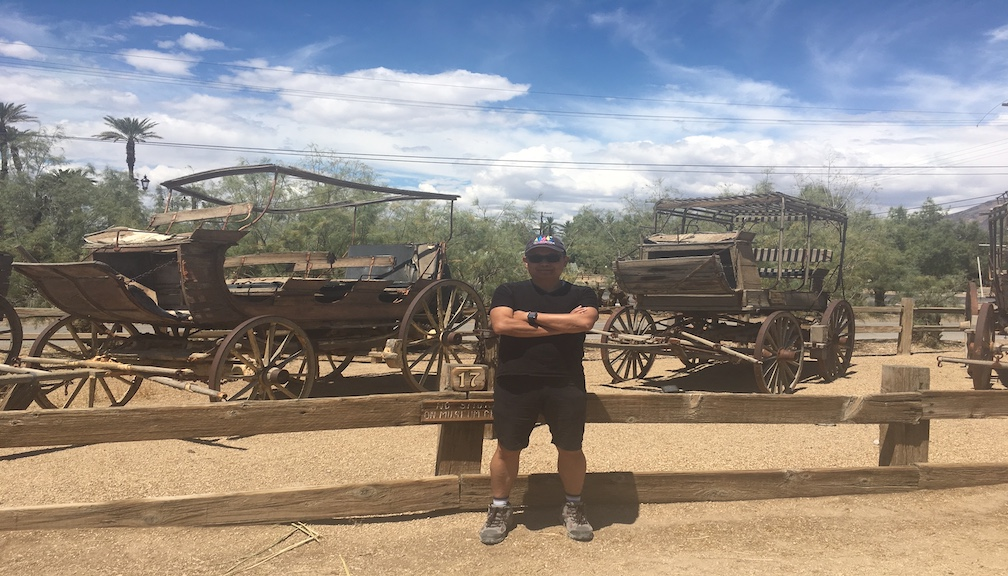
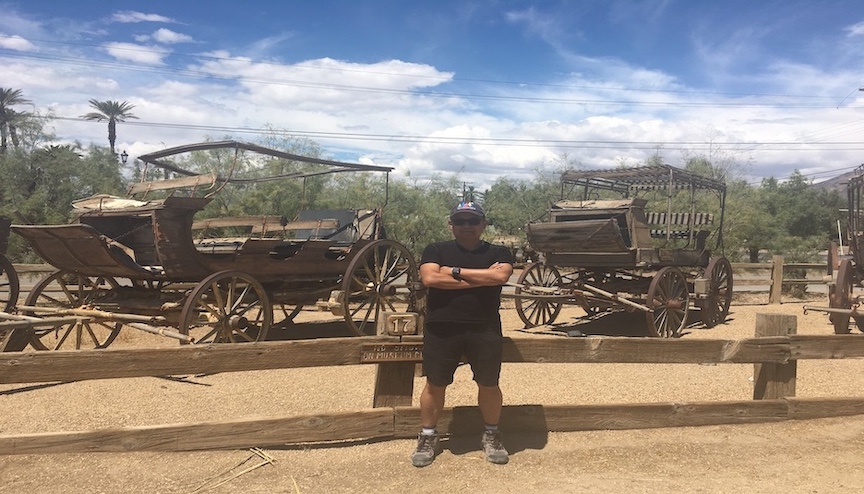
add  about_tlu.jpg

diff --git a/src/pages/about.js b/src/pages/about.js
@@ -2,7 +2,7 @@ import React from 'react'
 import NavLayout from '../components/NavLayout'
 import SEO from '../components/seo'
 import { PageHeader, Banner } from '../utils'
-import img from '../images/aboutTLU.jpeg'
+import img from '../images/about_tlu.jpg'
 
 import OurMission from "../info/our_mission"
 
